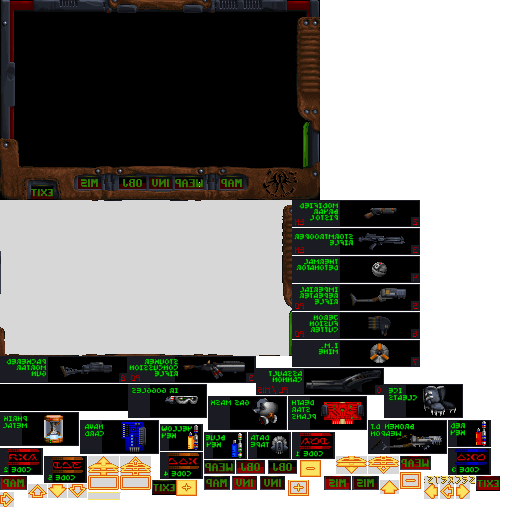
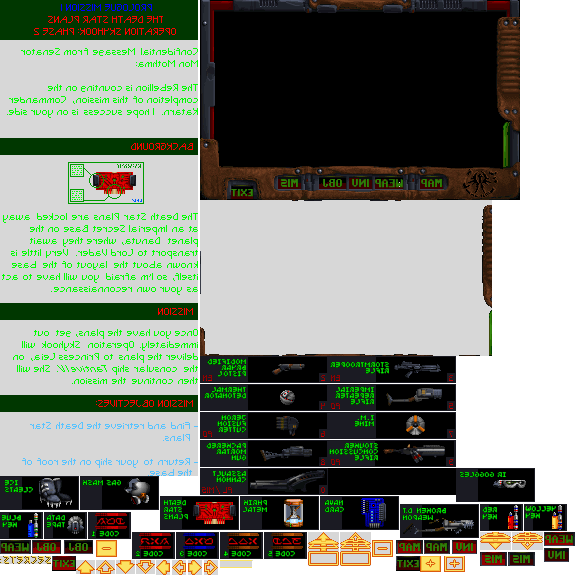
display tabs in a single panel

diff --git a/Project1/darkforces/dfComponent/dfCPDA.cpp b/Project1/darkforces/dfComponent/dfCPDA.cpp
@@ -76,6 +76,7 @@ DarkForces::Component::PDA::PDA(const std::string& name):
 	DarkForces::ANIM* pda = nullptr;
 	DarkForces::ANIM* guns = nullptr;
 	DarkForces::ANIM* items = nullptr;
+	DarkForces::DELT* secbase = nullptr;	//secbase briefing
 
 	m_textures = new Framework::TextureAtlas();
 
@@ -101,7 +102,13 @@ DarkForces::Component::PDA::PDA(const std::string& name):
 		m_textures->add(items->texture(i)->texture());
 	}
 
+	// add secbase briefing
+	uint32_t briefing = startItems + nbItems;
+	secbase = DarkForces::FileLFD::loadDelt("secbase", "DFBRIEF");
+	m_textures->add(secbase->texture());
+
 	m_textures->generate();
+	//m_textures->save("0.png");
 
 	glm::vec4 texel;
 	glm::vec4 texel_off;
@@ -115,7 +122,7 @@ DarkForces::Component::PDA::PDA(const std::string& name):
 	m_textures->texel(3, texel_off);
 	GameEngine::UI_button* map = new GameEngine::UI_button(
 		"DarkForces::pda::map",
-		glm::vec4(75.0f / 320.0f, 176.0f / 200.0f, 27.0f / 320.0f, 14.0f / 200.0f),	
+		glm::vec4(75.0f / 320.0f, 0.0f, 27.0f / 320.0f, 1.0f),	
 		texel_off,
 		texel
 	);
@@ -124,7 +131,7 @@ DarkForces::Component::PDA::PDA(const std::string& name):
 	m_textures->texel(5, texel_off);
 	GameEngine::UI_button* weapons = new GameEngine::UI_button(
 		"DarkForces::pda::weapon",
-		glm::vec4(115.0f/320.0f, 176.0f/200.0f, 31.0f/320.0f, 14.0f/200.0f),	
+		glm::vec4(115.0f/320.0f, 0.0f, 31.0f/320.0f, 1.0f),	
 		texel_off,
 		texel
 	);
@@ -133,7 +140,7 @@ DarkForces::Component::PDA::PDA(const std::string& name):
 	m_textures->texel(7, texel_off);
 	GameEngine::UI_button* inv = new GameEngine::UI_button(
 		"DarkForces::pda::inventory",
-		glm::vec4(147.0f / 320.0f, 176.0f / 200.0f, 25.0f / 320.0f, 14.0f / 200.0f),	
+		glm::vec4(147.0f / 320.0f, 0.0f, 25.0f / 320.0f, 1.0f),	
 		texel_off,
 		texel
 	);
@@ -142,7 +149,7 @@ DarkForces::Component::PDA::PDA(const std::string& name):
 	m_textures->texel(9, texel_off);
 	GameEngine::UI_button* obj = new GameEngine::UI_button(
 		"DarkForces::pda::objects",
-		glm::vec4(173.0f / 320.0f, 176.0f / 200.0f, 29.0f / 320.0f, 14.0f / 200.0f),	
+		glm::vec4(173.0f / 320.0f, 0.0f, 29.0f / 320.0f, 1.0f),	
 		texel_off,
 		texel
 	);
@@ -151,44 +158,34 @@ DarkForces::Component::PDA::PDA(const std::string& name):
 	m_textures->texel(11, texel_off);
 	GameEngine::UI_button* mis = new GameEngine::UI_button(
 		"DarkForces::pda::mission",
-		glm::vec4(217.0f / 320.0f, 176.0f / 200.0f, 27.0f / 320.0f, 14.0f / 200.0f),	
+		glm::vec4(217.0f / 320.0f, 0.0f, 27.0f / 320.0f, 1.0f),	
 		texel_off,
 		texel
 	);
 
 	// TAB of buttons
-	
 	GameEngine::UI_tab* tab = new GameEngine::UI_tab(
-		"DarkForces::pda::objects",
-		//glm::vec4(70.0f / 320.0f, 176.0f / 200.0f, 175.0f / 320.0f, 14.0f / 200.0f)
-		glm::vec4(0.0f / 320.0f, 0.0f / 200.0f, 320.0f / 320.0f, 200.0f / 200.0f)
+		"DarkForces::pda::tab",
+		glm::vec4(0.0f / 320.0f, 176.0f / 200.0f, 320.0f / 320.0f, 14.0f / 200.0f)	// tab buttons
 		);
 
-	// Exit button
-
-	m_textures->texel(12, texel);
-	m_textures->texel(13, texel_off);
-	GameEngine::UI_button* exit = new GameEngine::UI_button(
-		"DarkForces::pda::exit",
-		glm::vec4(266.0f / 320.0f, 185.0f / 200.0f, 24.0f / 320.0f, 15.0f / 200.0f),	
-		texel_off,
-		texel,
-		DarkForces::Message::PDA_EXIT
-	);
+	GameEngine::UI_widget* panel = new GameEngine::UI_widget("DarkForces::pda::panel",
+		glm::vec4(0.07, 0.07, 0.88, 0.74)	// position & size of the tab panel
+		);
 
 	// build the tab for weapons
 	m_ui_weapons = new GameEngine::UI_widget("DarkForces::pda::weapons",
-		glm::vec4(0.06, 0.06, 0.9, 0.76)	// position & size of the tab panel
-	);
+		glm::vec4(0.0, 0.0, 1.0, 1.0)
+		);
 
-	float x=0.0f, y=0.0f;
+	float x = 0.0f, y = 0.0f;
 	for (size_t c = 0; c < guns->size(); c++) {
 		m_textures->texel(startGuns + c, texel);
 		GameEngine::UI_picture* ui_weapon = new GameEngine::UI_picture("DarkForces::pda::weapon",
 			glm::vec4(x, y, 0.49f, 0.19f),
 			texel,
 			false	// hide weapons by default
-		);	
+		);
 
 		m_ui_weapons->add(ui_weapon);
 
@@ -200,19 +197,39 @@ DarkForces::Component::PDA::PDA(const std::string& name):
 	}
 	m_ui_weapons->widget(0)->visible(true);	// display the briad pistol
 
+	// build the tab for mission
+	m_textures->texel(briefing, texel);
+	GameEngine::UI_picture *missions = new GameEngine::UI_picture("DarkForces::pda::missions",
+		glm::vec4(0.25, 0.0, 0.5, 1.0),
+		texel
+	);
+
+	// Exit button
+	m_textures->texel(12, texel);
+	m_textures->texel(13, texel_off);
+	GameEngine::UI_button* exit = new GameEngine::UI_button(
+		"DarkForces::pda::exit",
+		glm::vec4(266.0f / 320.0f, 185.0f / 200.0f, 24.0f / 320.0f, 15.0f / 200.0f),	
+		texel_off,
+		texel,
+		DarkForces::Message::PDA_EXIT
+	);
+
 	m_root = ui_background;
 		ui_background->add(tab);
+			tab->setPanel(panel);
 			tab->addTab(map, nullptr);
 			tab->addTab(weapons, m_ui_weapons);
 			tab->addTab(inv, nullptr);
 			tab->addTab(obj, nullptr);
-			tab->addTab(mis, nullptr);
+			tab->addTab(mis, missions);
+		ui_background->add(panel);
 		ui_background->add(exit);
-		ui_background->add(m_ui_weapons);
 
 	m_root->link(this);
-	tab->tab(weapons);
+	tab->tab(weapons);	// force the tab original panel
 
+	delete secbase;
 	delete guns;
 	delete items;
 	delete pda;

diff --git a/Project1/gaEngine/gaUI.h b/Project1/gaEngine/gaUI.h
@@ -24,7 +24,7 @@ namespace GameEngine
 	class UI : public fwHUD, public gaComponent
 	{
 	protected:
-		UI_widget* m_root;
+		UI_widget* m_root = nullptr;
 		Framework::TextureAtlas* m_textures=nullptr;
 		bool m_dirty = true;
 		UI_widget* m_currentButton = nullptr;									// currently pressed button
@@ -58,13 +58,16 @@ namespace GameEngine
 	public:
 		UI_widget(const std::string& name, const glm::vec4& position, bool visible = true);
 		void add(UI_widget* widget);										// add a widget on the panel
-		void update(const glm::vec4&);										// update screen position
+		void update(const glm::vec4&);										// update screen position based on parent
+		void update(void);													// update children screen position
 		UI_widget* findWidgetAt(float x, float y);							// find relative widget
 		void link(UI* ui);													// link each widget to the top UI
 		
 		inline void visible(bool b) { m_visible = b; };
+		inline void draw(bool b) { m_draw = b; };
 		inline bool visible(void) { return m_visible; };
 		inline UI_widget* widget(uint32_t i) { return m_widgets[i]; };
+		inline void clear(void) { m_widgets.clear(); };						// remove all children
 
 		virtual void draw(void);											// draw the GUI
 		inline virtual void onMouseDown(void) { };							// click on the widget
@@ -84,11 +87,13 @@ namespace GameEngine
 	{
 		std::map<UI_button*, UI_widget*> m_tabs;							// list of button/panel
 		UI_button* m_activeTab = nullptr;
+		UI_widget* m_panel = nullptr;										// target panel
 		void sendMessage(UI_widget* from, uint32_t imessageu) override;		// send a message to the parent
 	public:
 		UI_tab(const std::string& name, const glm::vec4& position);
 		void tab(UI_button* current);										// force the current tab
 		void addTab(UI_button* button, UI_widget* panel);					// add a tab : button + panel
+		void setPanel(UI_widget* panel);									// define the display panel
 	};
 
 	class UI_button : public UI_picture

diff --git a/Project1/gaEngine/gaUI.cpp b/Project1/gaEngine/gaUI.cpp
@@ -211,6 +211,14 @@ void GameEngine::UI_widget::update(const glm::vec4& parent)
 	m_screen_position_size.x = parent.x + m_position_size.x * parent.z;
 	m_screen_position_size.y = parent.y + m_position_size.y * parent.w;
 
+	update();
+}
+
+/**
+ * update children screen position
+ */
+void GameEngine::UI_widget::update(void)
+{
 	for (auto widget : m_widgets) {
 		widget->update(m_screen_position_size);
 	}
@@ -307,19 +315,17 @@ void GameEngine::UI_tab::tab(UI_button* current)
 {
 	if (m_activeTab != nullptr) {
 		dynamic_cast<UI_button*>(m_activeTab)->release();	// deactivate the previous button
-
-		if (m_tabs[m_activeTab] != nullptr) {
-			// and hide the panel
-			m_tabs[m_activeTab]->visible(false);
-		}
-
 	}
 	m_activeTab = current;
-	m_activeTab->press();			// force the current tab on
+	m_activeTab->press();			// force the current button to 'press' image
+
+	// clear the old tab
+	m_panel->clear();
 
 	if (m_tabs[m_activeTab] != nullptr) {
-		// and display the panel
-		m_tabs[m_activeTab]->visible(true);
+		// and bind the the block to the display panel
+		m_panel->add(m_tabs[m_activeTab]);
+		m_panel->update();
 	}
 }
 
@@ -332,10 +338,14 @@ void GameEngine::UI_tab::addTab(UI_button* button, UI_widget* panel)
 
 	// register the widget
 	add(button);
-	if (panel) {
-		add(panel);		
-		panel->visible(false);	// hide the panel by default
-	}
+}
+
+/**
+ * define the display panel
+ */
+void GameEngine::UI_tab::setPanel(UI_widget* panel)
+{
+	m_panel = panel;
 }
 
 //-------------------------------------------------------

diff --git a/Project1/darkforces/dfFileLFD.cpp b/Project1/darkforces/dfFileLFD.cpp
@@ -257,6 +257,11 @@ DarkForces::ANIM* DarkForces::FileLFD::loadAnim(const std::string& file, const s
 	return g_LFDs[source]->anim(file);
 }
 
+DarkForces::DELT* DarkForces::FileLFD::loadDelt(const std::string& file, const std::string& source)
+{
+	return g_LFDs[source]->delt(file);
+}
+
 /**
  * load specificaly an ANIM file
  */
@@ -275,6 +280,23 @@ DarkForces::ANIM* DarkForces::FileLFD::anim(const std::string& file)
 	delete[] buffer;
 
 	return anim;
+}
+
+DarkForces::DELT* DarkForces::FileLFD::delt(const std::string& file)
+{
+	LFD_Entry entry;
+	uint8_t* buffer;
+	DELT* delt;
+
+	loadPltt("menu");
+	m_fd.seekg(m_index["DELT" + file].start);
+	m_fd.read((char*)&entry, sizeof(LFD_Entry));
+	buffer = new uint8_t[entry.length];
+	m_fd.read((char*)buffer, entry.length);
+	delt = new DELT(buffer, entry.length, (std::vector<PLTT_RGB> *)m_ressources["PLTTmenu"]);
+	delete[] buffer;
+
+	return delt;
 }
 
 /**

diff --git a/Project1/darkforces/dfFileLFD.h b/Project1/darkforces/dfFileLFD.h
@@ -67,10 +67,12 @@ namespace DarkForces {
 	public:
 		FileLFD(const std::string& file);
 		DarkForces::ANIM* anim(const std::string& file);
+		DarkForces::DELT* delt(const std::string& file);
 		void loadPltt(const std::string& file);
 
 		static void load(const std::string& file);										// load a permanent LFD
 		static DarkForces::ANIM* loadAnim(const std::string& file, const std::string& source);		// load an ANIM from a permanent LFD
+		static DarkForces::DELT* loadDelt(const std::string& file, const std::string& source);		// load an DELT from a permanent LFD
 		~FileLFD();
 	};
 };
